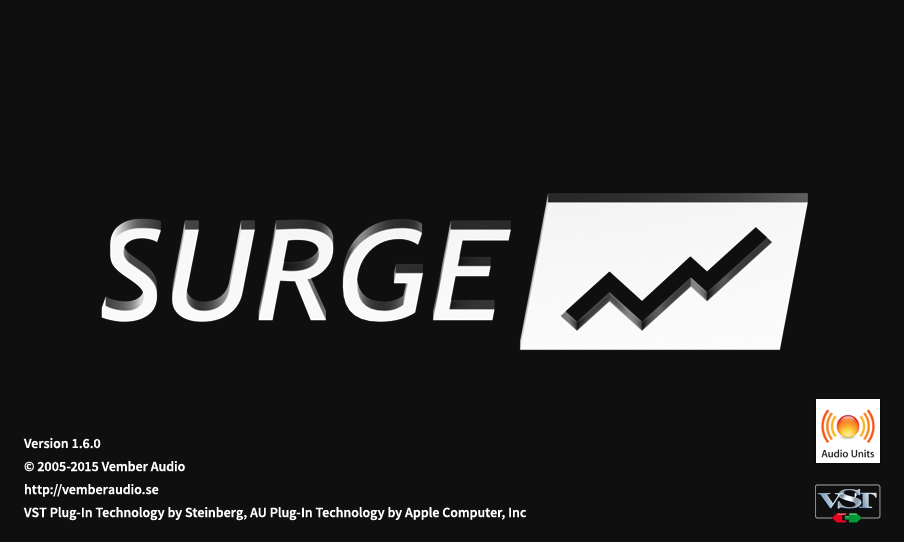
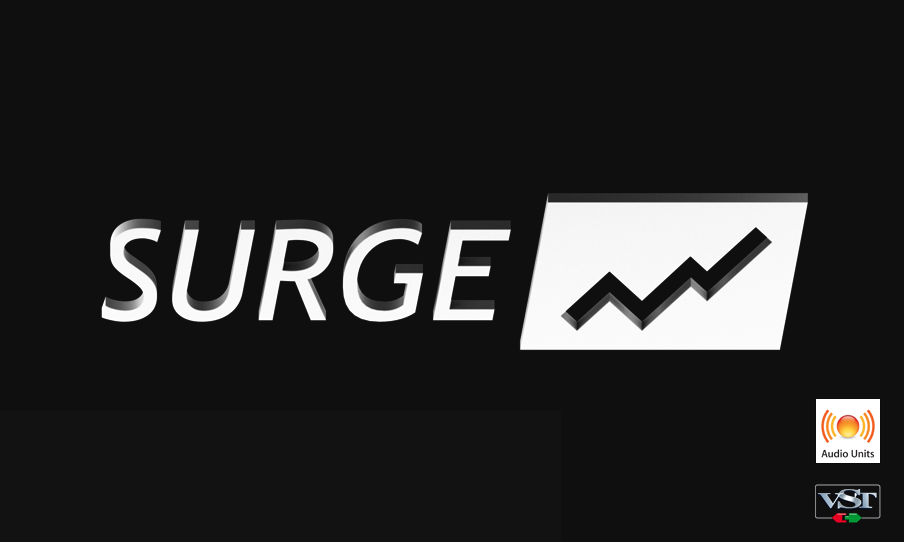
More explanatory about box.
This initial commit rewires the about box so the text painted on screen
comes from code, and also includes a build date and time.

Changed region(s): [[0.031, 0.797, 0.5885, 0.9742]]

diff --git a/src/common/gui/CAboutBox.cpp b/src/common/gui/CAboutBox.cpp
@@ -2,6 +2,8 @@
 #include "resource.h"
 #include <stdio.h>
 
+SharedPointer<CFontDesc> CAboutBox::infoFont;
+
 //------------------------------------------------------------------------
 // CAboutBox
 //------------------------------------------------------------------------
@@ -17,6 +19,10 @@ CAboutBox::CAboutBox(const CRect& size,
 {
    _aboutBitmap = aboutBitmap;
    boxHide(false);
+   if (infoFont == NULL)
+   {
+       infoFont = kNormalFont;
+   }
 }
 
 //------------------------------------------------------------------------
@@ -29,6 +35,26 @@ void CAboutBox::draw(CDrawContext* pContext)
    if (value)
    {
       _aboutBitmap->draw(pContext, getViewSize(), CPoint(0, 0), 0xff);
+
+      int strHeight = infoFont->getSize(); // There should really be a better API for this in VSTGUI
+      std::vector< std::string > msgs = { {
+              std::string( "Version 1.6.0 beta (build: " ) + __DATE__ + " " + __TIME__ + ")",
+              "Released under the GNU General Public License, v3",
+              "Copyright 2005-2019 by individual contributors",
+              "Source, contributors and other information at https://github.com/kurasu/surge",
+              "VST Plug-in technology by Steinberg, AU Plugin Technology by Apple Computer"
+          } };
+
+      int yMargin = 5;
+      int yPos = toDisplay.getHeight() - msgs.size() * (strHeight + yMargin); // one for the last; one for the margin
+      int xPos = strHeight;
+      pContext->setFontColor(kWhiteCColor);
+      pContext->setFont(infoFont);
+      for (auto s : msgs)
+      {
+          pContext->drawString(s.c_str(), CPoint( xPos, yPos ));
+          yPos += strHeight + yMargin;
+      }
    }
    else
    {

diff --git a/src/common/gui/CAboutBox.h b/src/common/gui/CAboutBox.h
@@ -41,4 +41,6 @@ protected:
    CPoint offset;
    SharedPointer<CBitmap> _aboutBitmap;
    bool bvalue;
+
+   static SharedPointer<CFontDesc> infoFont;
 };
